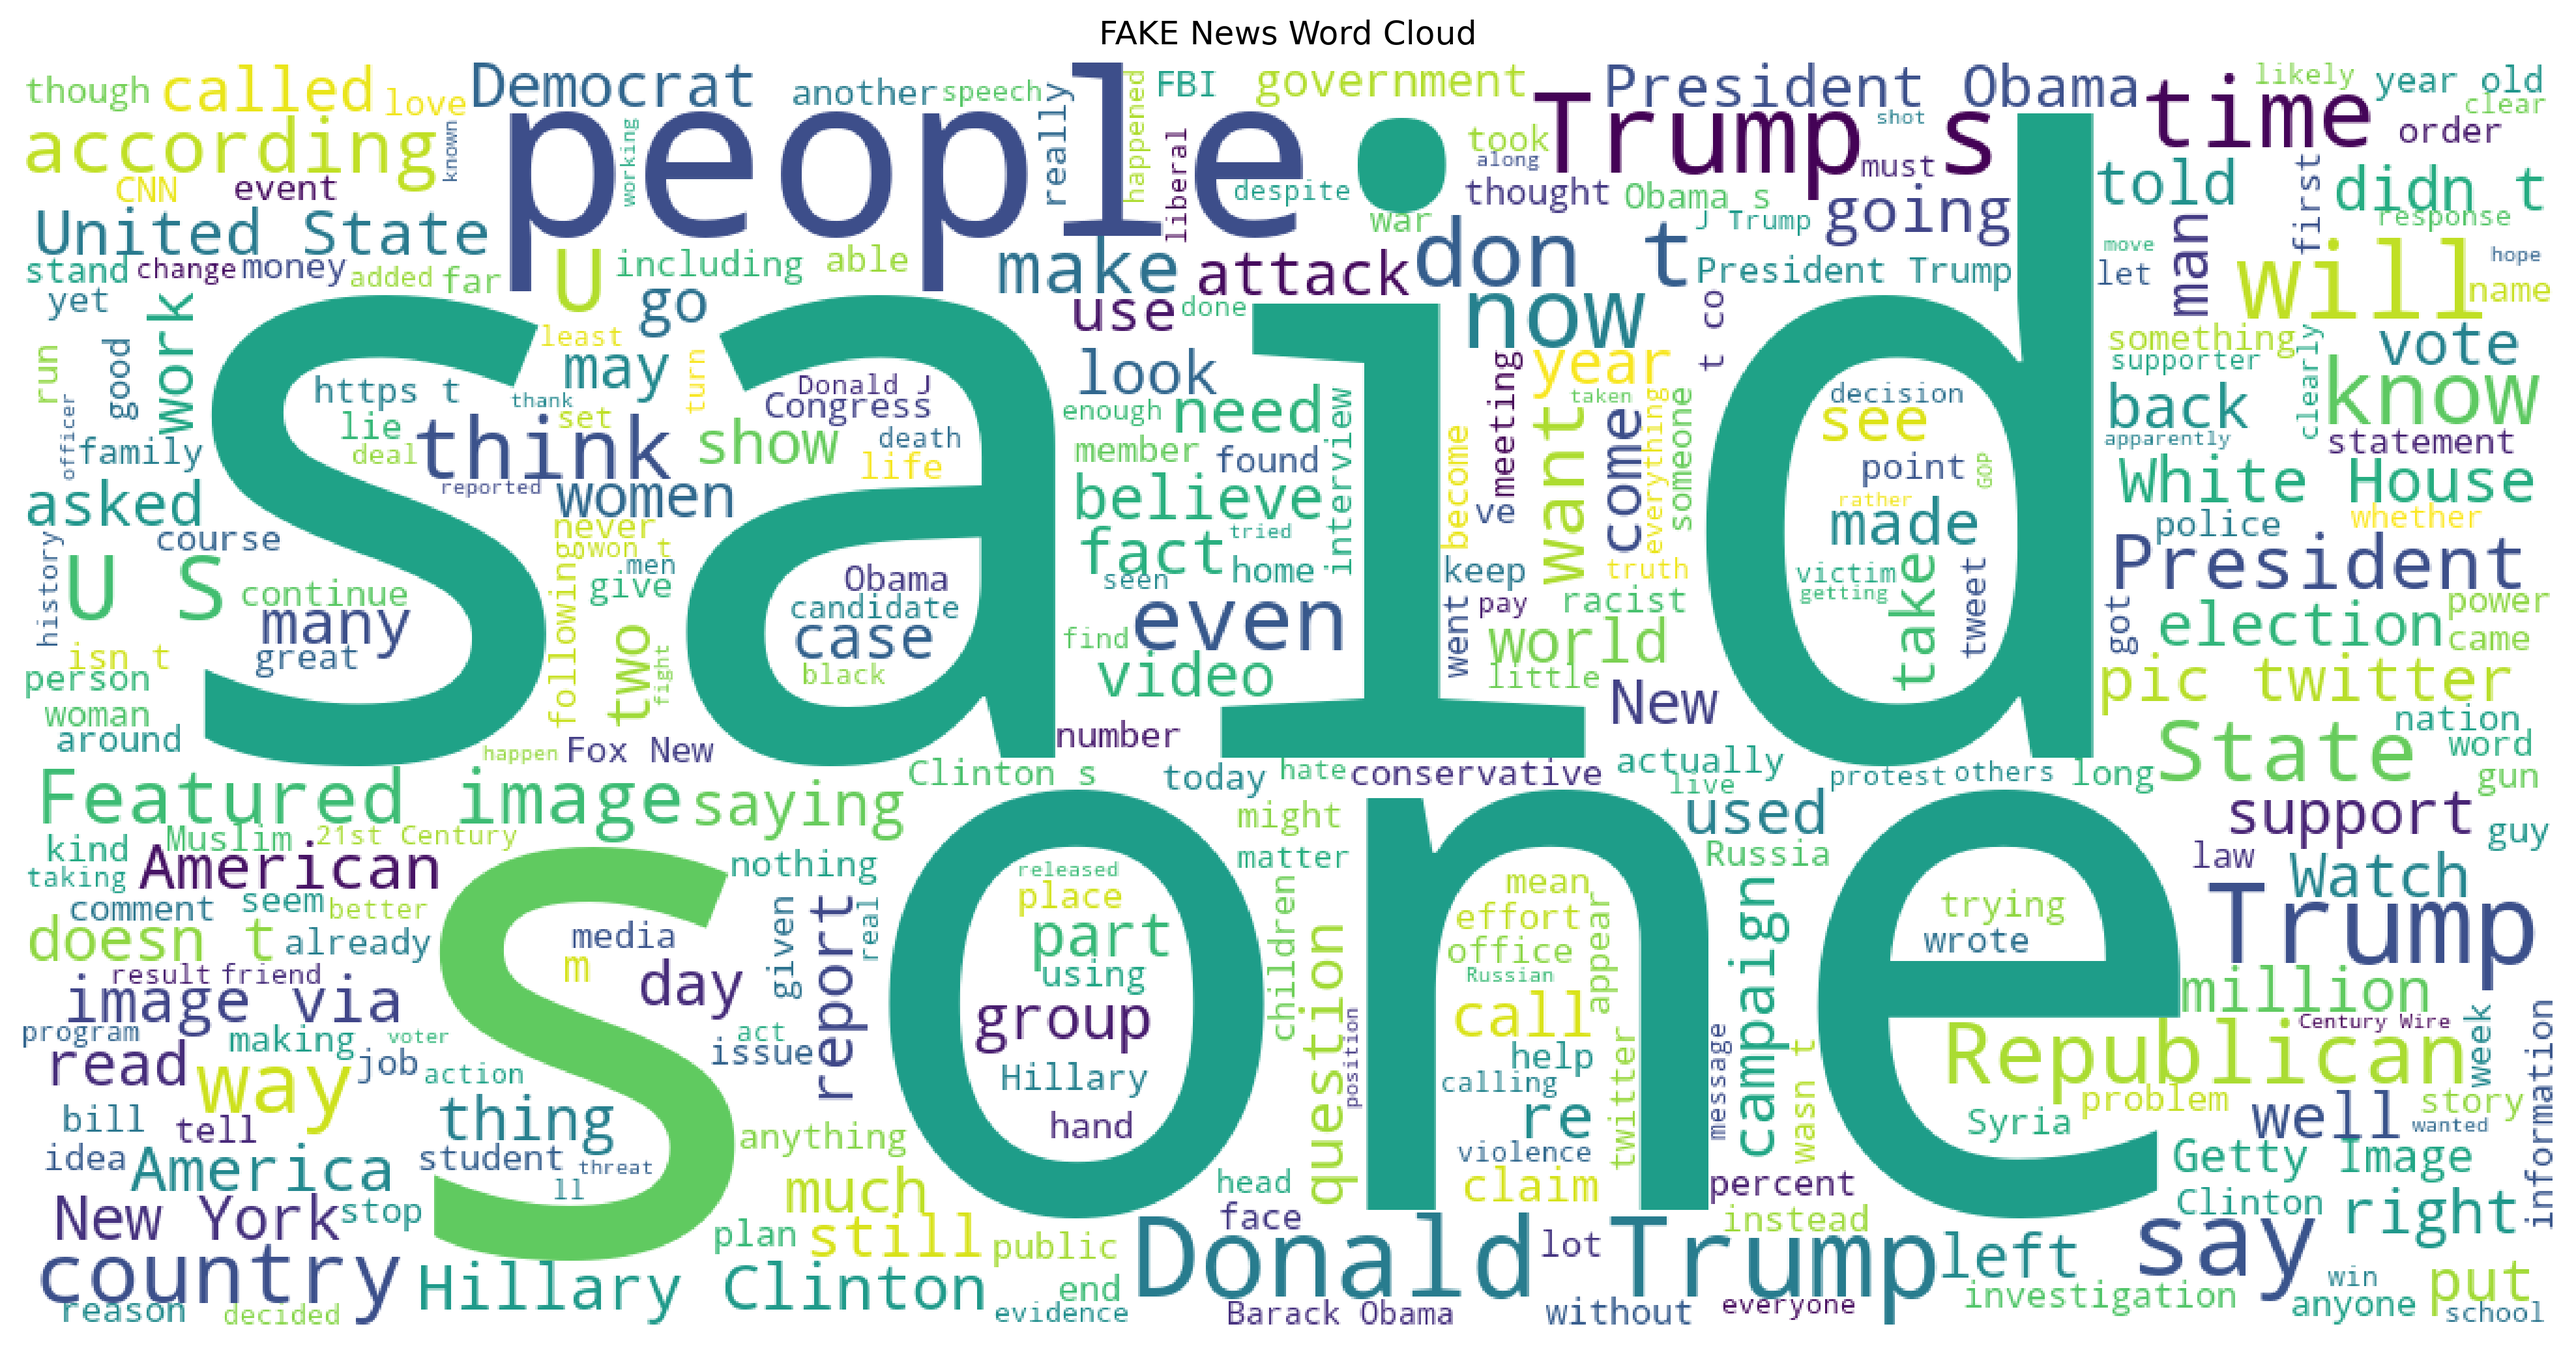
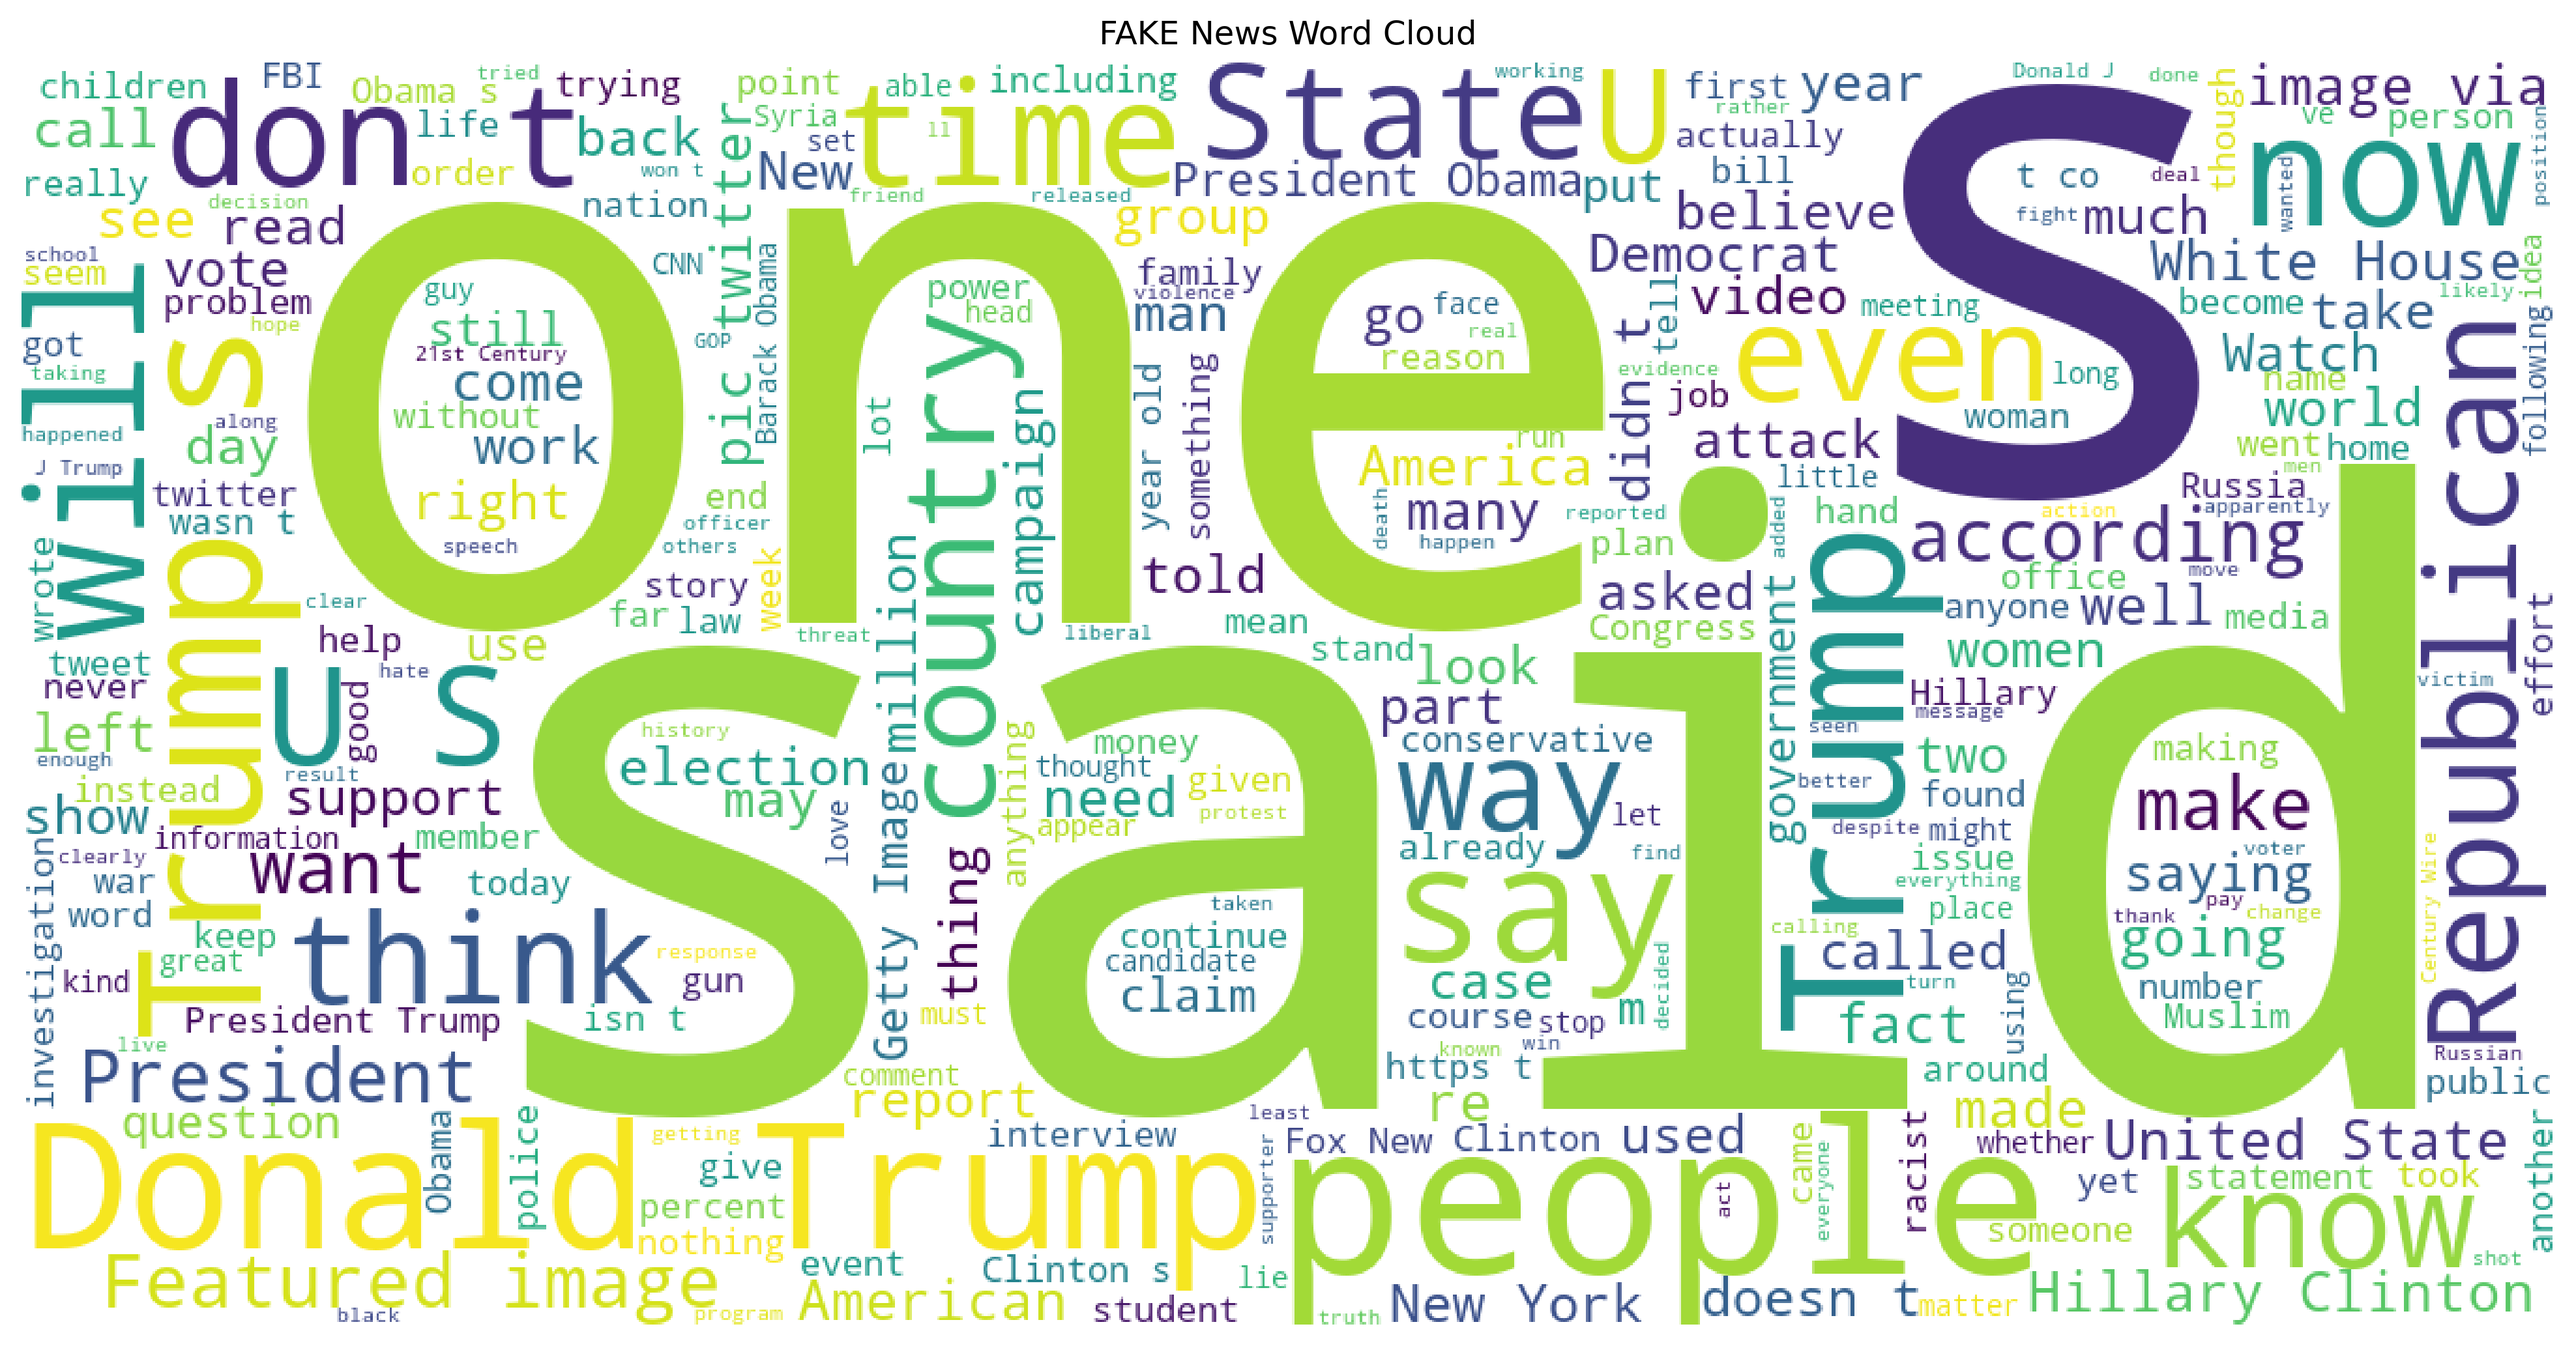
Final project submission: Fake News Detection with Streamlit

diff --git a/src/pipeline/train_pipeline.py b/src/pipeline/train_pipeline.py
@@ -4,30 +4,40 @@ Training pipeline for the Fake News Detection project.
 
 from __future__ import annotations
 
+from pathlib import Path
+
 from src.data.loader import DataLoader
 from src.data.preprocessing import DatasetPreprocessor
 from src.data.validator import DatasetValidator
+from src.features.tfidf import TFIDFFeatureExtractor
+from src.models.dataset_splitter import DatasetSplitter
+from src.models.model_manager import ModelManager
+from src.models.trainer import ModelTrainer
 from src.visualization.eda import EDAAnalyzer
 from src.visualization.plots import PlotGenerator
 from src.visualization.wordclouds import WordCloudGenerator
-from src.models.dataset_splitter import DatasetSplitter
 
 
 class TrainingPipeline:
     """
-    Execute the complete data preparation pipeline.
+    Execute the complete Fake News Detection pipeline.
     """
 
     def run(self) -> None:
         """
-        Run the complete pipeline.
+        Run the complete machine learning pipeline.
         """
 
+        # ==========================================================
         # Load datasets
+        # ==========================================================
         loader = DataLoader()
+
         datasets = loader.load_all_datasets()
 
-        # Validate and merge datasets
+        # ==========================================================
+        # Validate datasets
+        # ==========================================================
         validator = DatasetValidator()
 
         merged_dataset = validator.prepare_dataset(
@@ -35,13 +45,13 @@ class TrainingPipeline:
             real_df=datasets["real"],
         )
 
-        validator.save_dataset(merged_dataset)
-
         validator.dataset_statistics(
             merged_dataset
         )
 
+        # ==========================================================
         # Preprocess dataset
+        # ==========================================================
         preprocessor = DatasetPreprocessor()
 
         merged_dataset = preprocessor.process(
@@ -52,21 +62,89 @@ class TrainingPipeline:
             merged_dataset
         )
 
+        # ==========================================================
         # Split dataset
+        # ==========================================================
         splitter = DatasetSplitter()
 
         X_train, X_test, y_train, y_test = splitter.split(
-        merged_dataset
+            merged_dataset
         )
 
+        # ==========================================================
+        # TF-IDF Feature Extraction
+        # ==========================================================
+        tfidf = TFIDFFeatureExtractor()
+
+        X_train_features = tfidf.fit_transform(
+            X_train
+        )
+
+        X_test_features = tfidf.transform(
+            X_test
+        )
+
+        # ==========================================================
+        # Train Models
+        # ==========================================================
+        trainer = ModelTrainer()
+
+        trained_models, results = trainer.train(
+            X_train_features,
+            X_test_features,
+            y_train,
+            y_test,
+        )
+
+        print("\n" + "=" * 60)
+        print("MODEL PERFORMANCE")
+        print("=" * 60)
+        print(results)
+
+        # ==========================================================
+        # Save evaluation results
+        # ==========================================================
+        metrics_dir = Path("models") / "metrics"
+
+        metrics_dir.mkdir(
+            parents=True,
+            exist_ok=True,
+        )
+
+        results.to_csv(
+            metrics_dir / "model_results.csv",
+            index=False,
+        )
+
+        # ==========================================================
+        # Save best model
+        # ==========================================================
+        best_model_name = results.iloc[0]["Model"]
+
+        model_manager = ModelManager()
+
+        model_manager.save_model(
+            trained_models[best_model_name],
+            best_model_name.lower().replace(" ", "_"),
+        )
+
+        # ==========================================================
+        # Save TF-IDF Vectorizer
+        # ==========================================================
+        tfidf.save()
+
+        # ==========================================================
         # Exploratory Data Analysis
+        # ==========================================================
         eda = EDAAnalyzer(
             merged_dataset
         )
 
         eda.summary()
 
-        # Plots
+        # ==========================================================
+        # Visualizations
+        # ==========================================================
         plotter = PlotGenerator()
 
         plotter.plot_class_distribution(
@@ -81,7 +159,9 @@ class TrainingPipeline:
             merged_dataset
         )
 
+        # ==========================================================
         # Word Clouds
+        # ==========================================================
         wordcloud = WordCloudGenerator()
 
         wordcloud.generate_wordcloud(
@@ -105,5 +185,5 @@ class TrainingPipeline:
         )
 
         print("\n" + "=" * 60)
-        print("Pipeline completed successfully.")
+        print("PIPELINE COMPLETED SUCCESSFULLY")
         print("=" * 60)

diff --git a/streamlit_app.py b/streamlit_app.py
@@ -1,0 +1,118 @@
+"""
+Streamlit application for Fake News Detection.
+"""
+
+from __future__ import annotations
+
+import streamlit as st
+
+from src.models.predictor import FakeNewsPredictor
+
+
+st.set_page_config(
+    page_title="Fake News Detection",
+    page_icon="📰",
+    layout="wide",
+)
+
+st.title("📰 Fake News Detection")
+st.markdown(
+    """
+Detect whether a news article is **FAKE** or **REAL**
+using a trained Machine Learning model.
+"""
+)
+
+st.sidebar.header("Project Information")
+
+st.sidebar.info(
+    """
+**Algorithms Trained**
+
+- Logistic Regression
+- Naive Bayes
+- Random Forest
+
+Best Model:
+**Random Forest**
+
+Features:
+- Text Preprocessing
+- TF-IDF Vectorization
+- Machine Learning Classification
+"""
+)
+
+st.subheader("Enter News Article")
+
+news_text = st.text_area(
+    "Paste the news content below:",
+    height=300,
+)
+
+if st.button("Predict"):
+
+    if not news_text.strip():
+
+        st.warning("Please enter some news text.")
+
+    else:
+
+        with st.spinner("Analyzing article..."):
+
+            predictor = FakeNewsPredictor(
+                "random_forest"
+            )
+
+            label, confidence = predictor.predict(
+                news_text
+            )
+
+        st.divider()
+
+        st.subheader("Prediction")
+
+        if label == "REAL":
+
+            st.success(f"✅ REAL NEWS")
+
+        else:
+
+            st.error(f"🚨 FAKE NEWS")
+
+        st.metric(
+            "Confidence",
+            f"{confidence:.2%}",
+        )
+
+st.divider()
+
+st.markdown(
+    """
+### Dataset
+
+- Fake News: **22,848**
+- Real News: **21,210**
+
+### Text Processing
+
+- Lowercasing
+- HTML Removal
+- URL Removal
+- Punctuation Removal
+- Stopword Removal
+- Lemmatization
+
+### Feature Extraction
+
+- TF-IDF (5000 Features)
+
+### Developed Using
+
+- Python
+- Scikit-learn
+- Streamlit
+- Pandas
+- NLTK
+"""
+)

diff --git a/src/features/tfidf.py b/src/features/tfidf.py
@@ -11,6 +11,7 @@ import pandas as pd
 from scipy.sparse import csr_matrix
 from sklearn.feature_extraction.text import TfidfVectorizer
 
+from src.config import Config
 from src.logger import setup_logger
 
 logger = setup_logger(__name__)
@@ -68,17 +69,25 @@ class TFIDFFeatureExtractor:
 
         return self.vectorizer.transform(text)
 
-    def save(
-        self,
-        output_path: Path,
-    ) -> None:
+    def save(self) -> Path:
         """
-        Save the fitted vectorizer.
+        Save the fitted TF-IDF vectorizer.
+
+        Returns
+        -------
+        Path
+            Path to the saved vectorizer.
         """
 
-        output_path.parent.mkdir(
+        output_directory = Config.MODELS_DIR / "vectorizers"
+
+        output_directory.mkdir(
             parents=True,
             exist_ok=True,
+        )
+
+        output_path = (
+            output_directory / "tfidf_vectorizer.joblib"
         )
 
         joblib.dump(
@@ -91,12 +100,24 @@ class TFIDFFeatureExtractor:
             output_path,
         )
 
+        return output_path
+
     @staticmethod
     def load(
         model_path: Path,
     ) -> TfidfVectorizer:
         """
         Load a saved TF-IDF vectorizer.
+
+        Parameters
+        ----------
+        model_path : Path
+            Path to the saved TF-IDF vectorizer.
+
+        Returns
+        -------
+        TfidfVectorizer
+            Loaded TF-IDF vectorizer.
         """
 
         logger.info(

diff --git a/test_predict.py b/test_predict.py
@@ -1,0 +1,15 @@
+from src.models.predictor import FakeNewsPredictor
+
+predictor = FakeNewsPredictor("random_forest")
+
+texts = [
+    "NASA discovered dinosaurs living on the moon yesterday.",
+    "The Federal Reserve announced it would keep interest rates unchanged while monitoring inflation.",
+]
+
+for text in texts:
+    label, confidence = predictor.predict(text)
+    print("-" * 50)
+    print(text)
+    print("Prediction:", label)
+    print("Confidence:", confidence)
